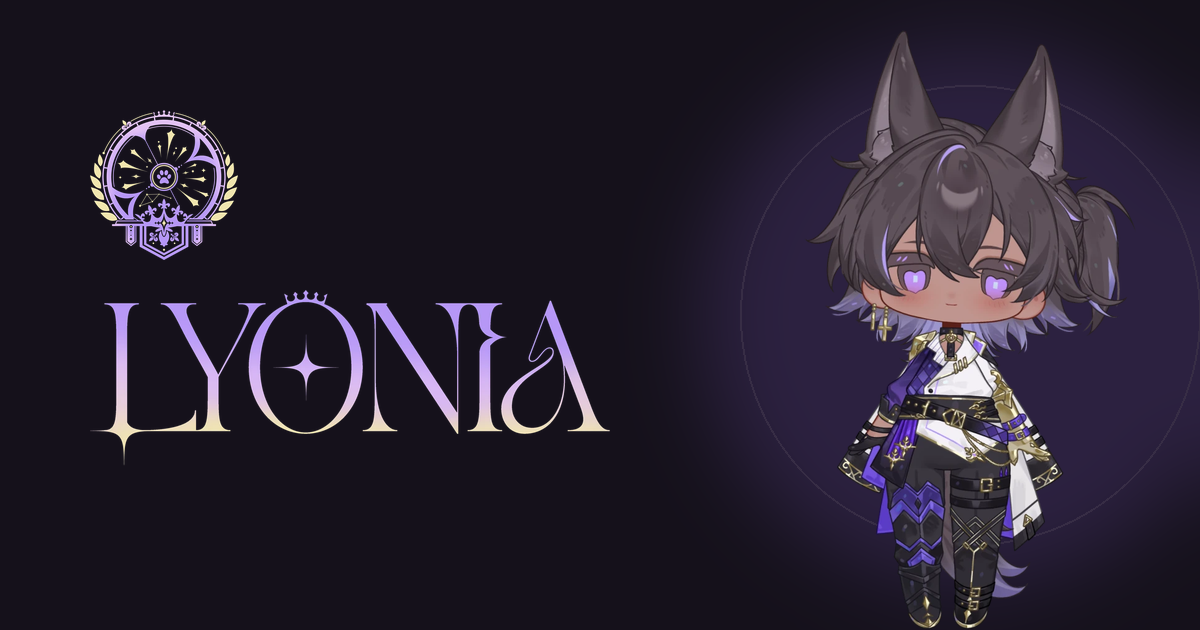
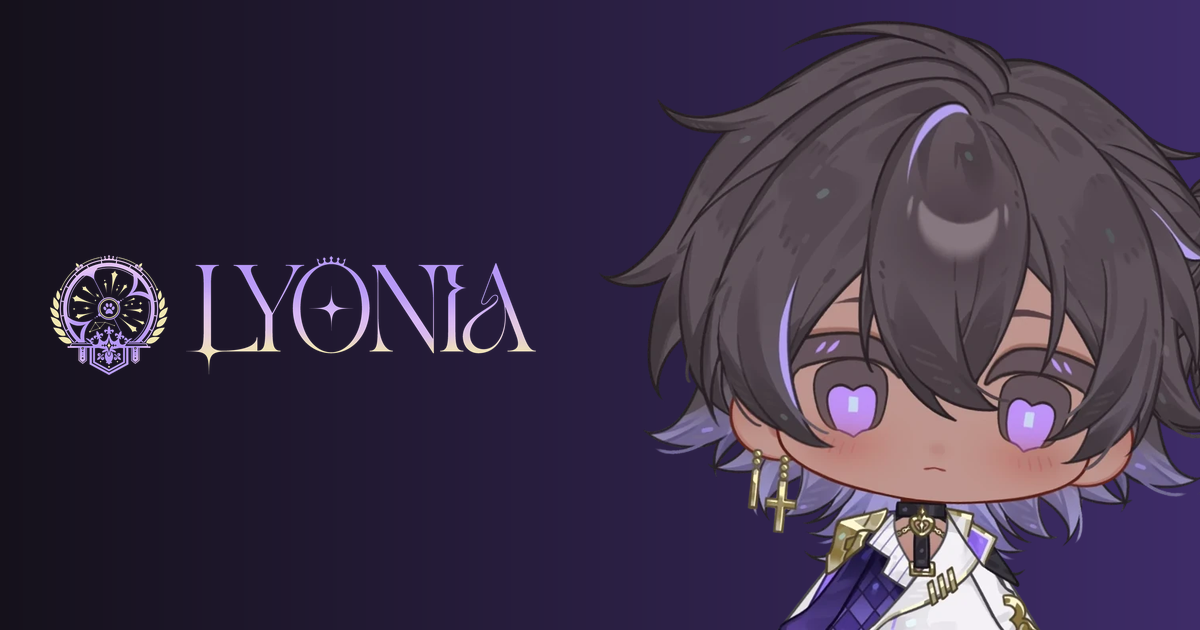
Hide alt text while images load, load first-screen images first, smaller emblem, new link preview

diff --git a/build/build.js b/build/build.js
@@ -171,12 +171,12 @@ async function homePage(ctx, page) {
     <div class="stage">
       <picture>
         <source media="(max-width: 760px)" srcset="${phone}"${ctx.dims(phone)}>
-        <img class="figure" src="${character}"${ctx.dims(character)} alt="${esc(text(page, "character_image_alt"))}">
+        <img class="figure" src="${character}"${ctx.dims(character)} fetchpriority="high" alt="${esc(text(page, "character_image_alt"))}">
       </picture>
     </div>
     <div class="intro">
-      <div class="seal"><img src="${ctx.emblem}" alt=""${ctx.dims(ctx.emblem)}><p class="eyebrow" id="live">${esc(text(ctx.site, "live_badge_default"))}</p></div>
-      <h1><img src="${ctx.wordmark}" alt="${esc(ctx.name)}"${ctx.dims(ctx.wordmark)}></h1>
+      <div class="seal"><img src="${ctx.emblem}" alt=""${ctx.dims(ctx.emblem)} fetchpriority="high"><p class="eyebrow" id="live">${esc(text(ctx.site, "live_badge_default"))}</p></div>
+      <h1><img src="${ctx.wordmark}" alt="${esc(ctx.name)}"${ctx.dims(ctx.wordmark)} fetchpriority="high"></h1>
       <p class="lede">${inline(page.body)}</p>
       <div class="actions">
         <a class="cta" id="watch" href="${esc(ctx.twitchUrl)}" target="_blank" rel="noopener">${icon(ctx, page, "twitch")}<span class="live-dot" aria-hidden="true"></span><span>${esc(text(ctx.site, "watch_button_default"))}</span></a>

diff --git a/build/test/build.test.js b/build/test/build.test.js
@@ -25,7 +25,7 @@ async function edit(dir, file, from, to) {
 
 test("reads image sizes from WebP and PNG headers", async () => {
   const size = async (p) => imageSize(await readFile(join(ROOT, p)));
-  assert.deepEqual(await size("content/images/emblem.webp"), { width: 886, height: 900 });
+  assert.deepEqual(await size("content/images/emblem.webp"), { width: 284, height: 288 });
   assert.deepEqual(await size("content/images/chibi.webp"), { width: 533, height: 964 });
   assert.deepEqual(await size("content/images/preview.png"), { width: 1200, height: 630 });
   assert.deepEqual(await size("assets/icon-192.png"), { width: 192, height: 192 });
@@ -47,7 +47,7 @@ test("images get their real size so the layout does not jump", async () => {
   const { content, out } = await scratch();
   await buildSite({ contentDir: content, outDir: out });
   const html = await readFile(join(out, "index.html"), "utf8");
-  assert.match(html, /<img src="images\/emblem\.webp" alt="" width="886" height="900">/);
+  assert.match(html, /<img src="images\/emblem\.webp" alt="" width="284" height="288">/);
 });
 
 test("an empty photo shows the placeholder", async () => {

diff --git a/css/base.css b/css/base.css
@@ -74,7 +74,7 @@ body {
   font: 400 1.0625rem/1.6 var(--sans);
   padding-inline: 20px;
 }
-img { max-width: 100%; display: block; }
+img { max-width: 100%; display: block; color: transparent; }
 a { color: inherit; }
 .wrap { max-width: 1040px; margin-inline: auto; }
 
